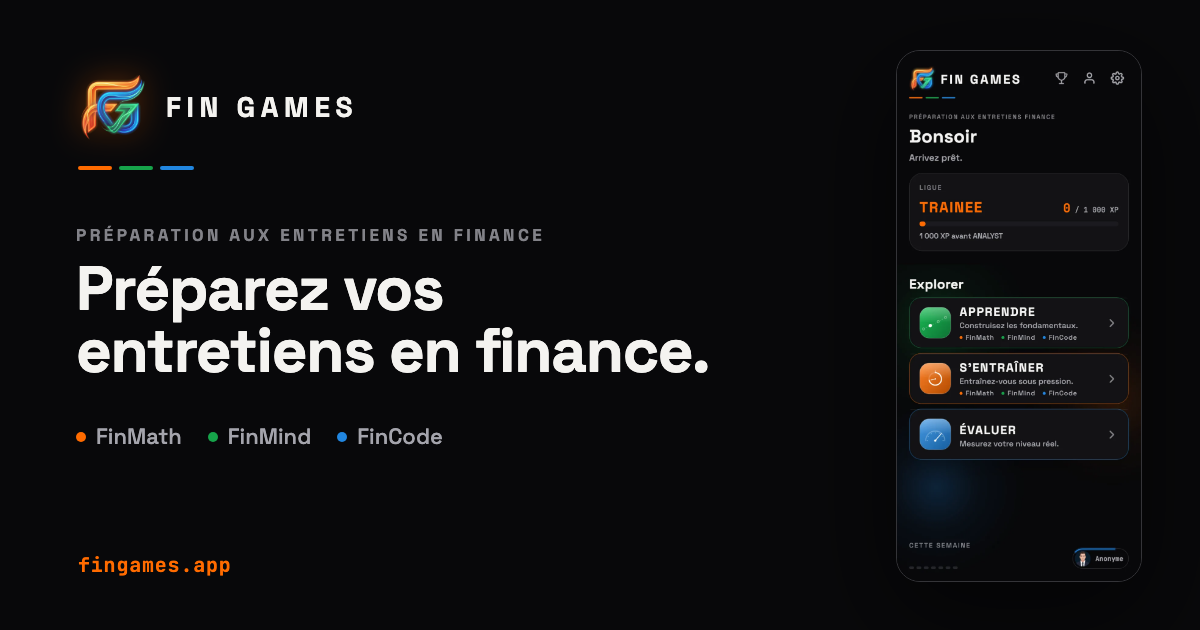
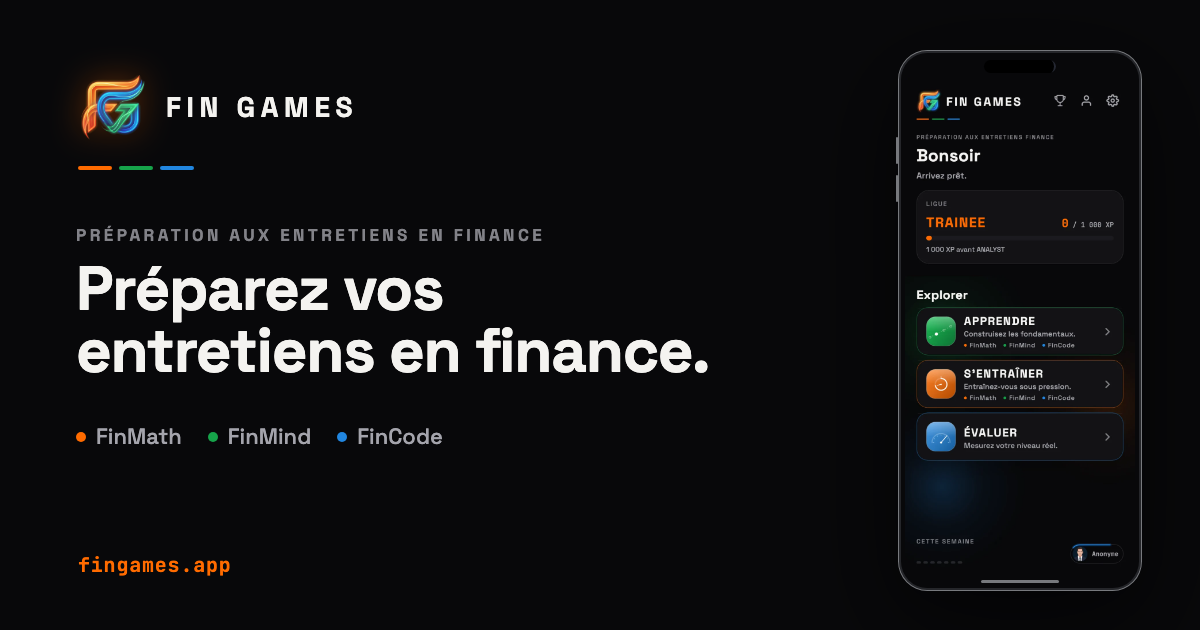
Présenter les captures existantes dans un cadre iPhone

Changed region(s): [[0.74, 0.0603, 0.9558, 0.9651], [0.8942, 0.0905, 0.9558, 0.181], [0.8633, 0.3016, 0.9558, 0.3619]]

diff --git a/index.fr.html b/index.fr.html
@@ -45,11 +45,11 @@
   </div>
 </div></header>
 <main id="main">
-<section class="product-hero"><div class="wrap hero-layout"><div class="hero-copy"><p class="eyebrow">PRÉPARATION AUX ENTRETIENS EN FINANCE · iOS</p><h1>Préparez vos<br>entretiens en finance.</h1><p class="lead">Finance. Mathématiques. Logique. Programmation.<br>Construisez vos connaissances. Entraînez-vous sous pression.<br>Abordez votre prochain entretien avec méthode.</p><a class="primary" href="#method">Découvrir FinGames<span aria-hidden="true">↗</span></a><p class="availability">Conçu pour iPhone. En français et en anglais.</p><div class="identity-bars" aria-hidden="true"><i></i><i></i><i></i></div></div><figure class="hero-device device"><img src="assets/current/fr-home-800.webp" srcset="assets/current/fr-home-400.webp 400w, assets/current/fr-home-800.webp 800w" sizes="(max-width: 700px) 72vw, 320px" width="804" height="1748" alt="Accueil FinGames : apprendre, s’entraîner et s’évaluer" fetchpriority="high" decoding="async"><figcaption>FIN GAMES <span>LEARN · PRACTICE · EVALUATE</span></figcaption></figure></div></section>
- <section class="product-section" id="method"><div class="wrap"><div class="section-heading"><div><p class="eyebrow">LA MÉTHODE</p><h2>Comprendre.<br>Pratiquer. Se mesurer.</h2></div><p>Un parcours clair pour comprendre une notion, puis la mobiliser quand le temps est compté.</p></div><div class="method-grid"><article class="method-item"><p class="step-label"><span>01</span> LEARN</p><figure class="device"><img src="assets/current/fr-learn-800.webp" srcset="assets/current/fr-learn-400.webp 400w, assets/current/fr-learn-800.webp 800w" sizes="(max-width: 700px) 72vw, 320px" width="804" height="1748" alt="LEARN — Construisez les fondamentaux." loading="lazy" decoding="async"></figure><h3>Construisez les fondamentaux.</h3><p>Suivez des parcours structurés, choisissez une spécialisation et vérifiez votre compréhension au fil de votre progression.</p></article><article class="method-item"><p class="step-label"><span>02</span> PRACTICE</p><figure class="device"><img src="assets/current/fr-practice-800.webp" srcset="assets/current/fr-practice-400.webp 400w, assets/current/fr-practice-800.webp 800w" sizes="(max-width: 700px) 72vw, 320px" width="804" height="1748" alt="PRACTICE — Développez vos réflexes." loading="lazy" decoding="async"></figure><h3>Développez vos réflexes.</h3><p>Entraînez-vous avec FinMath, FinMind et FinCode. Choisissez un sujet, réglez la difficulté et travaillez contre la montre.</p></article><article class="method-item"><p class="step-label"><span>03</span> EVALUATE</p><figure class="device"><img src="assets/current/fr-evaluate-800.webp" srcset="assets/current/fr-evaluate-400.webp 400w, assets/current/fr-evaluate-800.webp 800w" sizes="(max-width: 700px) 72vw, 320px" width="804" height="1748" alt="EVALUATE — Situez votre niveau." loading="lazy" decoding="async"></figure><h3>Situez votre niveau.</h3><p>Passez un entretien blanc écrit adapté au métier visé. Analysez vos résultats et identifiez les notions à retravailler.</p></article></div><p class="capture-note">Captures de l’application actuelle exécutée localement. Rendu web ; la présentation iOS peut différer.</p></div></section>
+<section class="product-hero"><div class="wrap hero-layout"><div class="hero-copy"><p class="eyebrow">PRÉPARATION AUX ENTRETIENS EN FINANCE · iOS</p><h1>Préparez vos<br>entretiens en finance.</h1><p class="lead">Finance. Mathématiques. Logique. Programmation.<br>Construisez vos connaissances. Entraînez-vous sous pression.<br>Abordez votre prochain entretien avec méthode.</p><a class="primary" href="#method">Découvrir FinGames<span aria-hidden="true">↗</span></a><p class="availability">Conçu pour iPhone. En français et en anglais.</p><div class="identity-bars" aria-hidden="true"><i></i><i></i><i></i></div></div><figure class="hero-device device"><span class="iphone-frame"><span class="iphone-buttons" aria-hidden="true"></span><img src="assets/current/fr-home-800.webp" srcset="assets/current/fr-home-400.webp 400w, assets/current/fr-home-800.webp 800w" sizes="(max-width: 700px) 72vw, 320px" width="804" height="1748" alt="Accueil FinGames : apprendre, s’entraîner et s’évaluer" fetchpriority="high" decoding="async"></span><figcaption>FIN GAMES <span>LEARN · PRACTICE · EVALUATE</span></figcaption></figure></div></section>
+ <section class="product-section" id="method"><div class="wrap"><div class="section-heading"><div><p class="eyebrow">LA MÉTHODE</p><h2>Comprendre.<br>Pratiquer. Se mesurer.</h2></div><p>Un parcours clair pour comprendre une notion, puis la mobiliser quand le temps est compté.</p></div><div class="method-grid"><article class="method-item"><p class="step-label"><span>01</span> LEARN</p><figure class="device"><span class="iphone-frame"><span class="iphone-buttons" aria-hidden="true"></span><img src="assets/current/fr-learn-800.webp" srcset="assets/current/fr-learn-400.webp 400w, assets/current/fr-learn-800.webp 800w" sizes="(max-width: 700px) 72vw, 320px" width="804" height="1748" alt="LEARN — Construisez les fondamentaux." loading="lazy" decoding="async"></span></figure><h3>Construisez les fondamentaux.</h3><p>Suivez des parcours structurés, choisissez une spécialisation et vérifiez votre compréhension au fil de votre progression.</p></article><article class="method-item"><p class="step-label"><span>02</span> PRACTICE</p><figure class="device"><span class="iphone-frame"><span class="iphone-buttons" aria-hidden="true"></span><img src="assets/current/fr-practice-800.webp" srcset="assets/current/fr-practice-400.webp 400w, assets/current/fr-practice-800.webp 800w" sizes="(max-width: 700px) 72vw, 320px" width="804" height="1748" alt="PRACTICE — Développez vos réflexes." loading="lazy" decoding="async"></span></figure><h3>Développez vos réflexes.</h3><p>Entraînez-vous avec FinMath, FinMind et FinCode. Choisissez un sujet, réglez la difficulté et travaillez contre la montre.</p></article><article class="method-item"><p class="step-label"><span>03</span> EVALUATE</p><figure class="device"><span class="iphone-frame"><span class="iphone-buttons" aria-hidden="true"></span><img src="assets/current/fr-evaluate-800.webp" srcset="assets/current/fr-evaluate-400.webp 400w, assets/current/fr-evaluate-800.webp 800w" sizes="(max-width: 700px) 72vw, 320px" width="804" height="1748" alt="EVALUATE — Situez votre niveau." loading="lazy" decoding="async"></span></figure><h3>Situez votre niveau.</h3><p>Passez un entretien blanc écrit adapté au métier visé. Analysez vos résultats et identifiez les notions à retravailler.</p></article></div><p class="capture-note">Captures de l’application actuelle exécutée localement. Rendu web ; la présentation iOS peut différer.</p></div></section>
  <section class="product-section subject-section" id="subjects"><div class="wrap"><p class="eyebrow">QUATRE DISCIPLINES</p><h2>Les bases d’une<br>réponse solide.</h2><div class="subject-list"><article><span class="subject-number">01</span><h3>Finance</h3><div><h4>Comprenez les marchés.</h4><p>États financiers, valorisation, marchés et produits. Reliez les concepts avant de les mettre à l’épreuve.</p></div></article><article><span class="subject-number">02</span><h3>Mathématiques</h3><div><h4>Maîtrisez les chiffres.</h4><p>Calcul mental, probabilités, statistiques et mathématiques financières. Développez votre compréhension et votre rapidité.</p></div></article><article><span class="subject-number">03</span><h3>Logique</h3><div><h4>Raisonnez face à l’inconnu.</h4><p>Suites, raisonnement numérique et résolution de problèmes. Exercez-vous à trouver une approche rigoureuse sous pression.</p></div></article><article><span class="subject-number">04</span><h3>Programmation</h3><div><h4>Pensez clairement en code.</h4><p>Python, algorithmes et programmation quantitative. Lisez, raisonnez et appliquez le code aux problèmes de finance.</p></div></article></div></div></section>
  <section class="product-section" id="interviews"><div class="wrap interview-layout"><div><p class="eyebrow">VOTRE ENTRETIEN</p><h2>Préparez le métier<br>que vous visez.</h2><p class="lead">Chaque métier mobilise des compétences différentes. Le parcours choisi détermine les questions de votre évaluation écrite.</p><p class="adaptive">L’évaluation écrite adapte sa difficulté à vos réponses. Le bilan vous aide à repérer les sujets à revoir.</p></div><div class="track-list"><article><span>01</span><div><h3>Sales & Trading</h3><p>Rapidité de calcul, connaissance des marchés et produits financiers.</p></div></article><article><span>02</span><div><h3>Banque d’affaires & gestion d’actifs</h3><p>Comptabilité, valorisation et produits détenus en portefeuille.</p></div></article><article><span>03</span><div><h3>Recherche quantitative</h3><p>Probabilités, statistiques et raisonnement numérique.</p></div></article><article><span>04</span><div><h3>Risques & conformité</h3><p>Exposition, mesure du risque et réglementation financière.</p></div></article><article><span>05</span><div><h3>Ingénierie fintech</h3><p>Programmation, structures de données et méthodes quantitatives.</p></div></article></div></div></section>
- <section class="product-section progress-section"><div class="wrap progress-layout"><figure class="device progress-device"><img src="assets/current/fr-profile-800.webp" srcset="assets/current/fr-profile-400.webp 400w, assets/current/fr-profile-800.webp 800w" sizes="(max-width: 700px) 72vw, 320px" width="804" height="1748" alt="Profil FinGames et progression de ligue" loading="lazy" decoding="async"></figure><div><p class="eyebrow">VOTRE PROGRESSION</p><h2>Chaque session compte.</h2><p class="lead">Retrouvez votre expérience, votre ligue et vos résultats. Observez vos progrès, puis revenez sur les sujets qui demandent encore de l’entraînement.</p><p class="privacy-note">Votre progression reste sur votre appareil.<br><a href="privacy.fr.html">Lire la politique de confidentialité <span aria-hidden="true">↗</span></a></p></div></div></section>
+ <section class="product-section progress-section"><div class="wrap progress-layout"><figure class="device progress-device"><span class="iphone-frame"><span class="iphone-buttons" aria-hidden="true"></span><img src="assets/current/fr-profile-800.webp" srcset="assets/current/fr-profile-400.webp 400w, assets/current/fr-profile-800.webp 800w" sizes="(max-width: 700px) 72vw, 320px" width="804" height="1748" alt="Profil FinGames et progression de ligue" loading="lazy" decoding="async"></span></figure><div><p class="eyebrow">VOTRE PROGRESSION</p><h2>Chaque session compte.</h2><p class="lead">Retrouvez votre expérience, votre ligue et vos résultats. Observez vos progrès, puis revenez sur les sujets qui demandent encore de l’entraînement.</p><p class="privacy-note">Votre progression reste sur votre appareil.<br><a href="privacy.fr.html">Lire la politique de confidentialité <span aria-hidden="true">↗</span></a></p></div></div></section>
  <section class="product-section" id="pro"><div class="wrap"><div class="pro-panel"><div><p class="pro-brand">FinGames <span>PRO</span></p><h2>Une préparation plus ciblée.</h2></div><div><p class="lead">FinGames Pro réunit LEARN, PRACTICE et EVALUATE dans un abonnement. Choisissez une formule mensuelle ou annuelle dans l’application.</p><a class="text-link" href="support.fr.html">Aide sur les abonnements <span aria-hidden="true">↗</span></a><p class="fine">Les prix et conditions d’abonnement sont affichés dans l’application avant tout achat.</p></div></div></div></section>
  <section class="product-section" id="faq"><div class="wrap faq-layout"><div><p class="eyebrow">QUELQUES PRÉCISIONS</p><h2>Avant de commencer.</h2></div><div><details><summary>À qui s’adresse FinGames ?</summary><p>Aux étudiants, aux personnes en reconversion et aux professionnels qui préparent des entretiens techniques en finance : banque d’affaires, sales & trading, finance quantitative ou fintech.</p></details><details><summary>Que comprend FinGames Pro ?</summary><p>L’accès aux parcours d’apprentissage, aux sessions d’entraînement et aux évaluations écrites. Les formules mensuelle et annuelle sont gérées via l’App Store.</p></details><details><summary>FinGames est-il disponible en français ?</summary><p>Oui. L’application propose le français et l’anglais, ainsi que des thèmes clair et sombre.</p></details><details><summary>Où télécharger FinGames ?</summary><p>Le lien public App Store sera ajouté ici lorsqu’il sera confirmé. Contactez le support pour connaître la disponibilité.</p></details></div></div></section>
  <section class="closing"><div class="wrap"><img src="assets/logo.png" width="64" height="64" alt="" loading="lazy"><h2>Votre prochain entretien.<br>Votre préparation commence ici.</h2><a class="primary" href="support.fr.html">Contacter FinGames<span aria-hidden="true">↗</span></a><p class="fine">FinGames est une application éducative. Son contenu est fourni à des fins de formation uniquement : il ne constitue ni un conseil financier, en investissement ou fiscal, ni une recommandation d’acheter ou de vendre un actif. Vos décisions financières n’engagent que vous.</p></div></section>

diff --git a/index.html b/index.html
@@ -45,11 +45,11 @@
   </div>
 </div></header>
 <main id="main">
-<section class="product-hero"><div class="wrap hero-layout"><div class="hero-copy"><p class="eyebrow">FINANCE INTERVIEW PREPARATION · iOS</p><h1>Prepare for your<br>finance interviews.</h1><p class="lead">Finance. Mathematics. Logic. Programming.<br>Build your knowledge. Train under pressure.<br>Walk into your next interview prepared.</p><a class="primary" href="#method">Explore FinGames<span aria-hidden="true">↗</span></a><p class="availability">Designed for iPhone. In English and French.</p><div class="identity-bars" aria-hidden="true"><i></i><i></i><i></i></div></div><figure class="hero-device device"><img src="assets/current/en-home-800.webp" srcset="assets/current/en-home-400.webp 400w, assets/current/en-home-800.webp 800w" sizes="(max-width: 700px) 72vw, 320px" width="804" height="1748" alt="FinGames home: Learn, Practice and Evaluate" fetchpriority="high" decoding="async"><figcaption>FIN GAMES <span>LEARN · PRACTICE · EVALUATE</span></figcaption></figure></div></section>
- <section class="product-section" id="method"><div class="wrap"><div class="section-heading"><div><p class="eyebrow">THE METHOD</p><h2>Know it.<br>Practise it. Prove it.</h2></div><p>A clear path from understanding a concept to recalling it when the clock is running.</p></div><div class="method-grid"><article class="method-item"><p class="step-label"><span>01</span> LEARN</p><figure class="device"><img src="assets/current/en-learn-800.webp" srcset="assets/current/en-learn-400.webp 400w, assets/current/en-learn-800.webp 800w" sizes="(max-width: 700px) 72vw, 320px" width="804" height="1748" alt="LEARN — Build the foundations." loading="lazy" decoding="async"></figure><h3>Build the foundations.</h3><p>Follow structured learning paths, choose a specialisation and check your understanding as you progress.</p></article><article class="method-item"><p class="step-label"><span>02</span> PRACTICE</p><figure class="device"><img src="assets/current/en-practice-800.webp" srcset="assets/current/en-practice-400.webp 400w, assets/current/en-practice-800.webp 800w" sizes="(max-width: 700px) 72vw, 320px" width="804" height="1748" alt="PRACTICE — Make it second nature." loading="lazy" decoding="async"></figure><h3>Make it second nature.</h3><p>Train with FinMath, FinMind and FinCode. Choose a subject, set the difficulty and work against the clock.</p></article><article class="method-item"><p class="step-label"><span>03</span> EVALUATE</p><figure class="device"><img src="assets/current/en-evaluate-800.webp" srcset="assets/current/en-evaluate-400.webp 400w, assets/current/en-evaluate-800.webp 800w" sizes="(max-width: 700px) 72vw, 320px" width="804" height="1748" alt="EVALUATE — Find out where you stand." loading="lazy" decoding="async"></figure><h3>Find out where you stand.</h3><p>Take a written mock interview shaped by your target role. Review your results and identify what needs work.</p></article></div><p class="capture-note">Screens captured from the current application running locally. Web rendering; iOS presentation may differ.</p></div></section>
+<section class="product-hero"><div class="wrap hero-layout"><div class="hero-copy"><p class="eyebrow">FINANCE INTERVIEW PREPARATION · iOS</p><h1>Prepare for your<br>finance interviews.</h1><p class="lead">Finance. Mathematics. Logic. Programming.<br>Build your knowledge. Train under pressure.<br>Walk into your next interview prepared.</p><a class="primary" href="#method">Explore FinGames<span aria-hidden="true">↗</span></a><p class="availability">Designed for iPhone. In English and French.</p><div class="identity-bars" aria-hidden="true"><i></i><i></i><i></i></div></div><figure class="hero-device device"><span class="iphone-frame"><span class="iphone-buttons" aria-hidden="true"></span><img src="assets/current/en-home-800.webp" srcset="assets/current/en-home-400.webp 400w, assets/current/en-home-800.webp 800w" sizes="(max-width: 700px) 72vw, 320px" width="804" height="1748" alt="FinGames home: Learn, Practice and Evaluate" fetchpriority="high" decoding="async"></span><figcaption>FIN GAMES <span>LEARN · PRACTICE · EVALUATE</span></figcaption></figure></div></section>
+ <section class="product-section" id="method"><div class="wrap"><div class="section-heading"><div><p class="eyebrow">THE METHOD</p><h2>Know it.<br>Practise it. Prove it.</h2></div><p>A clear path from understanding a concept to recalling it when the clock is running.</p></div><div class="method-grid"><article class="method-item"><p class="step-label"><span>01</span> LEARN</p><figure class="device"><span class="iphone-frame"><span class="iphone-buttons" aria-hidden="true"></span><img src="assets/current/en-learn-800.webp" srcset="assets/current/en-learn-400.webp 400w, assets/current/en-learn-800.webp 800w" sizes="(max-width: 700px) 72vw, 320px" width="804" height="1748" alt="LEARN — Build the foundations." loading="lazy" decoding="async"></span></figure><h3>Build the foundations.</h3><p>Follow structured learning paths, choose a specialisation and check your understanding as you progress.</p></article><article class="method-item"><p class="step-label"><span>02</span> PRACTICE</p><figure class="device"><span class="iphone-frame"><span class="iphone-buttons" aria-hidden="true"></span><img src="assets/current/en-practice-800.webp" srcset="assets/current/en-practice-400.webp 400w, assets/current/en-practice-800.webp 800w" sizes="(max-width: 700px) 72vw, 320px" width="804" height="1748" alt="PRACTICE — Make it second nature." loading="lazy" decoding="async"></span></figure><h3>Make it second nature.</h3><p>Train with FinMath, FinMind and FinCode. Choose a subject, set the difficulty and work against the clock.</p></article><article class="method-item"><p class="step-label"><span>03</span> EVALUATE</p><figure class="device"><span class="iphone-frame"><span class="iphone-buttons" aria-hidden="true"></span><img src="assets/current/en-evaluate-800.webp" srcset="assets/current/en-evaluate-400.webp 400w, assets/current/en-evaluate-800.webp 800w" sizes="(max-width: 700px) 72vw, 320px" width="804" height="1748" alt="EVALUATE — Find out where you stand." loading="lazy" decoding="async"></span></figure><h3>Find out where you stand.</h3><p>Take a written mock interview shaped by your target role. Review your results and identify what needs work.</p></article></div><p class="capture-note">Screens captured from the current application running locally. Web rendering; iOS presentation may differ.</p></div></section>
  <section class="product-section subject-section" id="subjects"><div class="wrap"><p class="eyebrow">FOUR DISCIPLINES</p><h2>The skills behind<br>a stronger answer.</h2><div class="subject-list"><article><span class="subject-number">01</span><h3>Finance</h3><div><h4>Understand what moves markets.</h4><p>Financial statements, valuation, markets and products. Connect the concepts before putting them to the test.</p></div></article><article><span class="subject-number">02</span><h3>Mathematics</h3><div><h4>Get comfortable with the numbers.</h4><p>Mental arithmetic, probability, statistics and financial mathematics. Build both understanding and speed.</p></div></article><article><span class="subject-number">03</span><h3>Logic</h3><div><h4>Work through the unfamiliar.</h4><p>Sequences, numerical reasoning and problem solving. Practise finding a sound approach under time pressure.</p></div></article><article><span class="subject-number">04</span><h3>Programming</h3><div><h4>Think clearly in code.</h4><p>Python, algorithms and quantitative programming. Read, reason and apply code to finance problems.</p></div></article></div></div></section>
  <section class="product-section" id="interviews"><div class="wrap interview-layout"><div><p class="eyebrow">YOUR INTERVIEW</p><h2>Prepare for the desk<br>you want to join.</h2><p class="lead">Different roles call for different skills. Your chosen track shapes the questions in your written assessment.</p><p class="adaptive">The written assessment adapts its difficulty to your answers. Your report helps you identify the areas to revisit.</p></div><div class="track-list"><article><span>01</span><div><h3>Sales & Trading</h3><p>Mental speed, market knowledge and financial products.</p></div></article><article><span>02</span><div><h3>Investment Banking & Asset Management</h3><p>Accounting, valuation and the products a portfolio holds.</p></div></article><article><span>03</span><div><h3>Quantitative Research</h3><p>Probability, statistics and numerical reasoning.</p></div></article><article><span>04</span><div><h3>Risk & Compliance</h3><p>Exposure, risk measurement and financial regulation.</p></div></article><article><span>05</span><div><h3>Fintech Engineering</h3><p>Programming, data structures and quantitative methods.</p></div></article></div></div></section>
- <section class="product-section progress-section"><div class="wrap progress-layout"><figure class="device progress-device"><img src="assets/current/en-profile-800.webp" srcset="assets/current/en-profile-400.webp 400w, assets/current/en-profile-800.webp 800w" sizes="(max-width: 700px) 72vw, 320px" width="804" height="1748" alt="FinGames profile and league progression" loading="lazy" decoding="async"></figure><div><p class="eyebrow">YOUR PROGRESS</p><h2>Make every session count.</h2><p class="lead">Keep track of your experience, league and session results. See where you are improving, then return to the topics that need more practice.</p><p class="privacy-note">Your progress stays on your device.<br><a href="privacy.html">Read our privacy policy <span aria-hidden="true">↗</span></a></p></div></div></section>
+ <section class="product-section progress-section"><div class="wrap progress-layout"><figure class="device progress-device"><span class="iphone-frame"><span class="iphone-buttons" aria-hidden="true"></span><img src="assets/current/en-profile-800.webp" srcset="assets/current/en-profile-400.webp 400w, assets/current/en-profile-800.webp 800w" sizes="(max-width: 700px) 72vw, 320px" width="804" height="1748" alt="FinGames profile and league progression" loading="lazy" decoding="async"></span></figure><div><p class="eyebrow">YOUR PROGRESS</p><h2>Make every session count.</h2><p class="lead">Keep track of your experience, league and session results. See where you are improving, then return to the topics that need more practice.</p><p class="privacy-note">Your progress stays on your device.<br><a href="privacy.html">Read our privacy policy <span aria-hidden="true">↗</span></a></p></div></div></section>
  <section class="product-section" id="pro"><div class="wrap"><div class="pro-panel"><div><p class="pro-brand">FinGames <span>PRO</span></p><h2>A more focused preparation.</h2></div><div><p class="lead">FinGames Pro brings together LEARN, PRACTICE and EVALUATE in one subscription. Choose a monthly or annual plan in the app.</p><a class="text-link" href="support.html">Subscription support <span aria-hidden="true">↗</span></a><p class="fine">Prices and subscription conditions are shown in the app before purchase.</p></div></div></div></section>
  <section class="product-section" id="faq"><div class="wrap faq-layout"><div><p class="eyebrow">A FEW DETAILS</p><h2>Before you begin.</h2></div><div><details><summary>Who is FinGames for?</summary><p>Students, career changers and professionals preparing for technical finance interviews, from investment banking and sales & trading to quantitative finance and fintech.</p></details><details><summary>What does FinGames Pro include?</summary><p>Access to the learning paths, practice sessions and written evaluations. Monthly and annual plans are managed through the App Store.</p></details><details><summary>Is FinGames available in French?</summary><p>Yes. The application includes English and French, with light and dark themes.</p></details><details><summary>Where can I download FinGames?</summary><p>The public App Store link will be added here when it is confirmed. Contact support for availability information.</p></details></div></div></section>
  <section class="closing"><div class="wrap"><img src="assets/logo.png" width="64" height="64" alt="" loading="lazy"><h2>Your next interview.<br>Your preparation starts here.</h2><a class="primary" href="support.html">Contact FinGames<span aria-hidden="true">↗</span></a><p class="fine">FinGames is an educational application. Its content is provided for training purposes only and is not financial, investment, or tax advice, nor a recommendation to buy or sell any asset. You alone are responsible for your financial decisions.</p></div></section>

diff --git a/assets/site.css b/assets/site.css
@@ -140,7 +140,7 @@ h1,h2,h3,.word,.pro-brand{font-family:"Space Grotesk",-apple-system,BlinkMacSyst
 .primary:hover{transform:translateY(-2px);opacity:.85}
 .availability{font-size:12px;color:var(--dim);margin:17px 0 0}
 .identity-bars{display:flex;gap:7px;margin-top:45px}.identity-bars i{height:3px;width:32px;background:var(--accent)}.identity-bars i:nth-child(2){background:var(--green)}.identity-bars i:nth-child(3){background:var(--blue)}
-.device{margin:0;min-width:0}.device img{display:block;width:100%;height:auto;border:1px solid #343438;border-radius:28px;background:#08080a;box-shadow:0 12px 30px #00000014}
+.device{margin:0;min-width:0}
 .hero-device{width:292px;justify-self:center;position:relative}
 .hero-device:before{content:"";position:absolute;inset:45px -55px -20px;border:1px solid var(--hairline);border-radius:150px 150px 12px 12px;z-index:-1}
 .hero-device figcaption{display:flex;justify-content:space-between;margin-top:16px;color:var(--dim);font:500 10px "Space Grotesk",sans-serif;letter-spacing:.16em}
@@ -166,7 +166,13 @@ h1,h2,h3,.word,.pro-brand{font-family:"Space Grotesk",-apple-system,BlinkMacSyst
 @keyframes product-in{from{transform:translateY(10px)}to{transform:none}}
 @media(max-width:1100px){.top .wrap{gap:12px}.menu{gap:0}.theme button{padding:0 6px}.hero-layout{gap:30px}.method-grid{gap:30px}}
 @media(max-width:900px){.top{position:sticky}.top .wrap{flex-wrap:wrap;min-height:72px;padding-top:10px;padding-bottom:10px}.tools{margin-left:auto}.menu-toggle{display:block}.menu{order:4;width:100%;margin:0;gap:8px;flex-wrap:wrap;overflow:visible}.js .menu{display:none}.js .menu.is-open{display:flex}.menu a{padding:8px 12px}.theme{display:none!important}.hero-layout{grid-template-columns:1.15fr 1fr;gap:30px}.hero-device{width:min(100%,260px)}.hero-copy h1{font-size:52px}.hero-copy .lead{font-size:16px}.product-hero{padding:52px 0 64px}.product-section{padding:64px 0}.interview-layout,.faq-layout{gap:40px}.progress-layout{gap:45px}.pro-panel{gap:30px;padding:30px}.method-grid{gap:24px}.method-item h3{font-size:19px}.subject-list article{grid-template-columns:32px 1fr 1.2fr}.subject-list h3{font-size:25px}}
-@media(max-width:700px){.wrap{padding-inline:22px}.word{font-size:13px}.brand{gap:6px}.brand img{width:30px;height:30px}.tools{gap:7px}.seg a{min-width:36px;padding:0 7px}.menu-toggle{font-size:13px;padding:0 9px}.hero-layout{grid-template-columns:1fr;gap:38px}.hero-copy h1{font-size:clamp(42px,9vw,62px)}.hero-copy .lead{font-size:16px}.identity-bars{margin-top:28px}.hero-device{width:260px}.section-heading{display:block;margin-bottom:30px}.section-heading>p{margin-top:22px}.product-section h2,.closing h2{font-size:36px}.method-grid{grid-template-columns:1fr;gap:42px}.method-item{display:grid;grid-template-columns:1fr 1.15fr;gap:12px 22px;align-content:start}.step-label{grid-column:1/-1;margin:0}.method-item .device{grid-column:1;grid-row:2/4;margin:8px 0 0}.method-item h3{align-self:end;margin:15px 0 0;font-size:22px}.method-item>p:last-child{font-size:14px;line-height:1.7}.capture-note{font-size:11px}.device img{border-radius:20px}.subject-list article{grid-template-columns:28px 1fr;gap:6px 12px;padding:25px 0}.subject-list article>div{grid-column:2}.subject-list h3{font-size:28px}.subject-number{padding-top:6px}.subject-list h4{margin-top:8px}.interview-layout,.faq-layout,.progress-layout,.pro-panel{grid-template-columns:1fr;gap:32px}.progress-layout>div{grid-row:1}.progress-device{width:230px}.pro-panel{padding:26px}.pro-panel h2{font-size:32px}.pro-brand{margin-bottom:20px}.closing{padding:36px 0 56px}.foot .wrap{gap:22px}.foot nav{gap:0 16px}.doc h1{font-size:34px;overflow-wrap:anywhere}.doc-section{scroll-margin-top:100px}.doc-section h2{letter-spacing:.025em}.contact{padding:20px}.hero-device:before{inset:30px -30px -10px}}
+@media(max-width:700px){.wrap{padding-inline:22px}.word{font-size:13px}.brand{gap:6px}.brand img{width:30px;height:30px}.tools{gap:7px}.seg a{min-width:36px;padding:0 7px}.menu-toggle{font-size:13px;padding:0 9px}.hero-layout{grid-template-columns:1fr;gap:38px}.hero-copy h1{font-size:clamp(42px,9vw,62px)}.hero-copy .lead{font-size:16px}.identity-bars{margin-top:28px}.hero-device{width:260px}.section-heading{display:block;margin-bottom:30px}.section-heading>p{margin-top:22px}.product-section h2,.closing h2{font-size:36px}.method-grid{grid-template-columns:1fr;gap:42px}.method-item{display:grid;grid-template-columns:1fr 1.15fr;gap:12px 22px;align-content:start}.step-label{grid-column:1/-1;margin:0}.method-item .device{grid-column:1;grid-row:2/4;margin:8px 0 0}.method-item h3{align-self:end;margin:15px 0 0;font-size:22px}.method-item>p:last-child{font-size:14px;line-height:1.7}.capture-note{font-size:11px}.subject-list article{grid-template-columns:28px 1fr;gap:6px 12px;padding:25px 0}.subject-list article>div{grid-column:2}.subject-list h3{font-size:28px}.subject-number{padding-top:6px}.subject-list h4{margin-top:8px}.interview-layout,.faq-layout,.progress-layout,.pro-panel{grid-template-columns:1fr;gap:32px}.progress-layout>div{grid-row:1}.progress-device{width:230px}.pro-panel{padding:26px}.pro-panel h2{font-size:32px}.pro-brand{margin-bottom:20px}.closing{padding:36px 0 56px}.foot .wrap{gap:22px}.foot nav{gap:0 16px}.doc h1{font-size:34px;overflow-wrap:anywhere}.doc-section{scroll-margin-top:100px}.doc-section h2{letter-spacing:.025em}.contact{padding:20px}.hero-device:before{inset:30px -30px -10px}}
 @media(prefers-reduced-motion:reduce){*,*::before,*::after{animation:none!important;transition:none!important;scroll-behavior:auto!important}}
 .footer-theme{margin-top:18px}.js .foot .footer-theme{display:inline-flex!important}
 @media(max-width:900px){.menu-toggle{display:none}.js .menu-toggle{display:block}}
+/* Decorative hardware surrounds the complete, unaltered capture. */
+.iphone-frame{display:block;position:relative;box-sizing:border-box;width:100%;padding:10% 2.5% 6%;border:1px solid #77797d;border-radius:12% / 5.5%;background:#08080a;box-shadow:inset 0 0 0 2px #25262a,0 10px 24px #00000018}
+.iphone-frame::before{content:"";position:absolute;top:1.6%;left:35%;width:30%;height:2.4%;border-radius:999px;background:#000;box-shadow:inset -5px 0 0 -3px #252832}
+.iphone-frame::after{content:"";position:absolute;bottom:1.2%;left:34%;width:32%;height:3px;border-radius:999px;background:#77797d}
+.iphone-frame img{display:block;width:100%;height:auto;border:0;border-radius:0;background:#08080a;box-shadow:none}
+.iphone-buttons{position:absolute;left:-3px;top:16%;width:2px;height:5%;border-radius:2px;background:#77797d;box-shadow:0 38px 0 #77797d}
